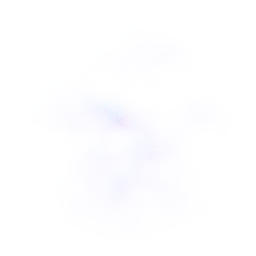
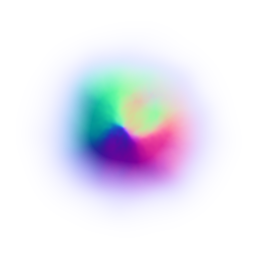
revamped clouds

Changed region(s): [[0.1875, 0.2188, 0.8125, 0.8125]]

diff --git a/generation/gen-normalmap.js b/generation/gen-normalmap.js
@@ -119,11 +119,12 @@ Math.random2d = function(x,y) {
     return whole - Math.floor(whole);
 };
 
-var genPerlin = function(sz, min, max, k) {
+var genPerlin = function(sz, min, max, k, exSmooth) {
     var ret = newArr(sz, 0.0);
     var h = max - min;
     var sz2 = sz / 4;
     var l = 0.5;
+    exSmooth = exSmooth || 0;
     while (k--) {
         for (var x=0; x<sz; x++) {
             for (var y=0; y<sz; y++) {
@@ -142,7 +143,7 @@ var genPerlin = function(sz, min, max, k) {
                 ret.inc(x, y, v);
             }
         }
-        for (var j=0; j<((k/2)*(k/2)); j++) {
+        for (var j=0; j<((k/2)*(k/2)+exSmooth); j++) {
             for (var x=0; x<sz; x++) {
                 for (var y=0; y<sz; y++) {
                     ret.setRot(x, y,
@@ -381,15 +382,17 @@ switch (type) {
 
     case 'cloud':
         Math.random2dSeed = Math.random()*40;
-        var p = genPerlin(sz, 0.0, 1.0, 12);
+        var p = genPerlin(sz, 0.0, 1.0, 12, 5);
         var r = sz/2-2;
         for (var x=0; x<sz; x++) {
             for (var y=0; y<sz; y++) {
                 var dx = x-sz/2, dy = y-sz/2;
                 var len = Math.sqrt(dx*dx+dy*dy);
                 if (len <= r) {
-                    var t = Math.pow((1-len/r)*Math.max(p.get(x,y)-0.65, 0), 2.0);
-                    hmap.set(x, y, t);
+                    var t = 1-len/r;
+                    t = Math.sin(t*Math.PI/2);
+                    t = Math.pow(t*(t+(Math.max(p.get(x,y)-0.65, 0))*0.5), 2.0);
+                    hmap.set(x, y, Math.pow(t, 2.5));
                     bmap.set(x, y, t);
                 }
                 else {

diff --git a/scripts/clouds.js b/scripts/clouds.js
@@ -49,10 +49,12 @@ BSWG.generateCloudGeom = function (size) {
 
     for (var i=0; i<C.length; i++) {
         var sz = Math.floor(Math.max(Math.round(C[i].r*12), 5))*3.5;
-        var cloud = new THREE.PlaneGeometry(C[i].r*2, C[i].r*2, 1, 1)
+        var cloud = new THREE.PlaneGeometry(C[i].r*5, C[i].r*5, 1, 1)
         var matrix = new THREE.Matrix4();
-        matrix.makeTranslation(C[i].x - size/2, C[i].y - size/2, 0.0).multiply(new THREE.Matrix4().makeRotationZ(Math.random()*Math.PI*2.0));
+        matrix.makeTranslation(C[i].x - size/2, C[i].y - size/2, 0.0).multiply(new THREE.Matrix4().makeRotationZ(0.0));
         cloud.applyMatrix(matrix);
+        cloud.computeFaceNormals();
+        cloud.computeVertexNormals();
         cloud.normalsNeedUpdate = true;
         cloud.needsUpdate = true;
         cloud.__Z = 0.0;
@@ -256,7 +258,7 @@ BSWG.cloudMap = new function (){
 
         while (this.list.length < count) {
             var p = BSWG.render.cam3D.position.clone();
-            p.z = -5 - Math.random() * 6;
+            p.z = -9 - Math.random() * 6;
             var a = Math.random() * Math.PI * 2.0;
             p.x += Math.cos(a) * 160;
             p.y += Math.sin(a) * 160;
